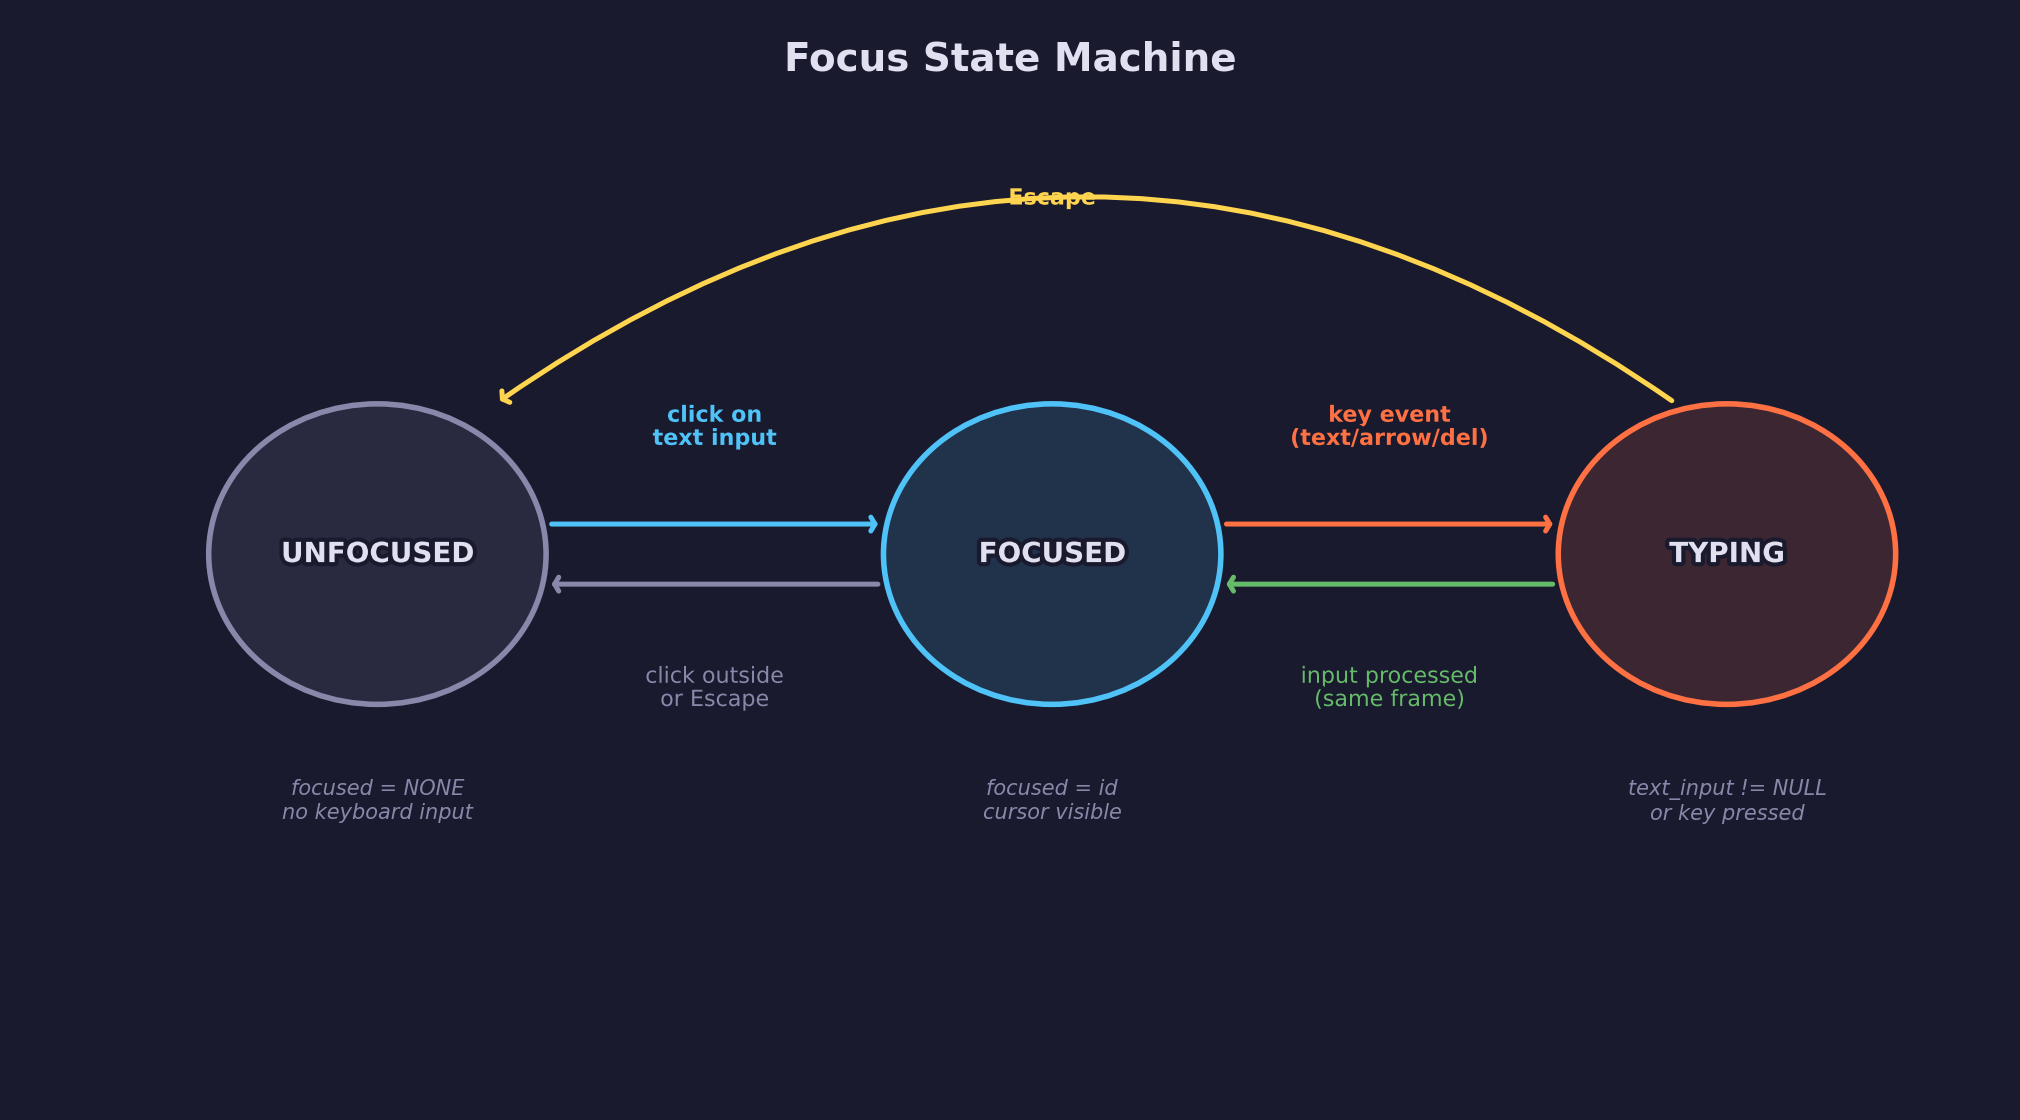
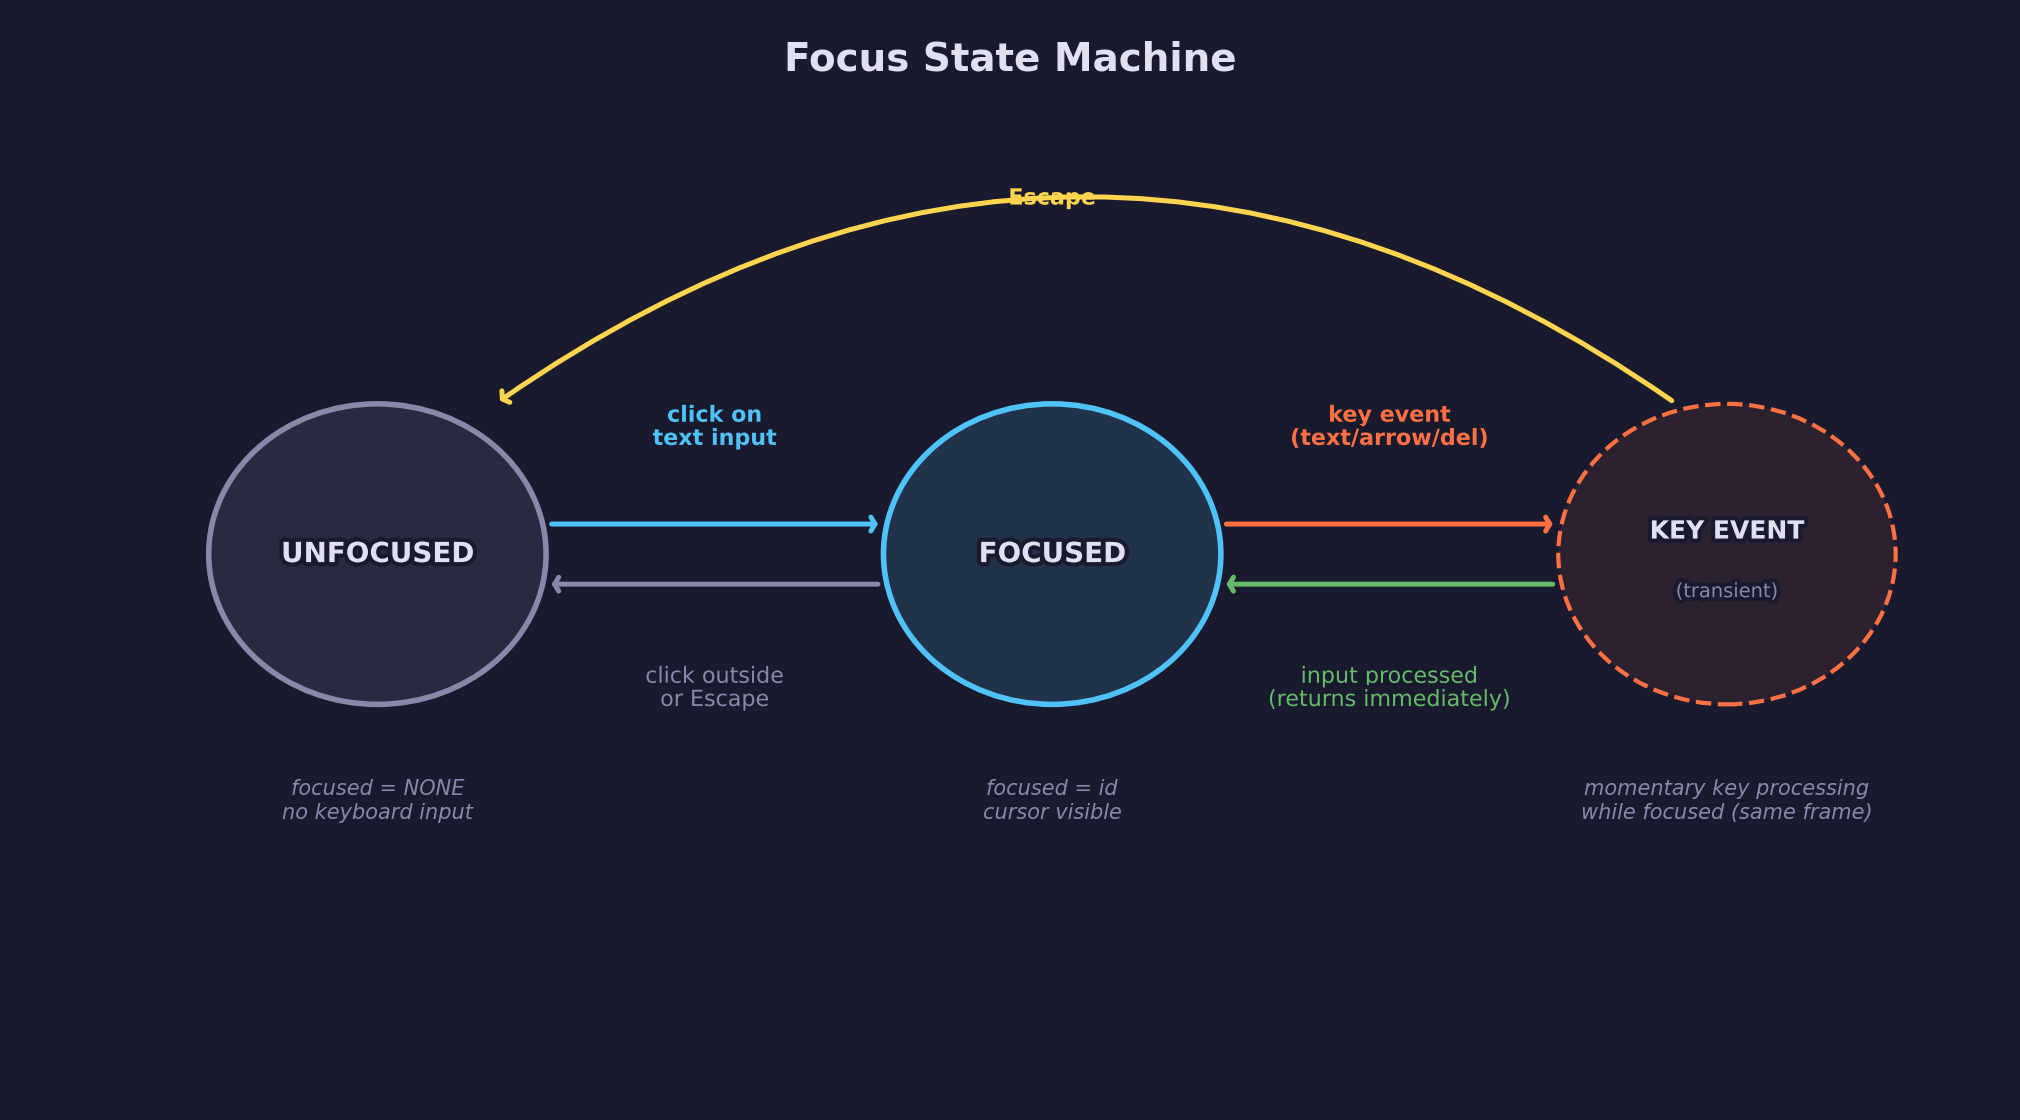
Present key-event processing as transient in focus state machine diagram
The implementation uses a single focused-ID model (focused = NONE or
focused = id) with no separate TYPING state.  Update the diagram to show
key-event processing as a dashed transient node rather than a solid
persistent state, and update the README description to match.

The "cursor bar (2px wide)" annotation was verified correct — it matches
FORGE_UI_TI_CURSOR_WIDTH (2.0f) in forge_ui_ctx.h.

https://claude.ai/code/session_01HK7huQTFVTd1sxhXwkHNWu

diff --git a/scripts/forge_diagrams/ui_diagrams.py b/scripts/forge_diagrams/ui_diagrams.py
@@ -4272,9 +4272,9 @@ def diagram_widget_interaction_comparison():
 
 
 def diagram_focus_state_machine():
-    """Three-state focus machine: Unfocused -> Focused -> Typing, with labeled
-    transitions for click-to-focus, click-outside/Escape-to-unfocus, and
-    key-events-while-focused."""
+    """Two-state focus machine (Unfocused / Focused) with a transient key-event
+    processing phase shown as a dashed node, reflecting the single focused-ID
+    model in forge_ui_ctx.h."""
 
     fig, ax = plt.subplots(figsize=(10, 5.5))
     fig.patch.set_facecolor(STYLE["bg"])
@@ -4289,14 +4289,13 @@ def diagram_focus_state_machine():
         pad=12,
     )
 
-    # State positions and colors
+    # Persistent state positions and colors
     states = {
         "UNFOCUSED": (1.5, 3.0, STYLE["text_dim"]),
         "FOCUSED": (5.5, 3.0, STYLE["accent1"]),
-        "TYPING": (9.5, 3.0, STYLE["accent2"]),
     }
 
-    # Draw state circles
+    # Draw persistent state circles (solid border)
     for name, (x, y, color) in states.items():
         circle = mpatches.Circle(
             (x, y),
@@ -4320,11 +4319,46 @@ def diagram_focus_state_machine():
             path_effects=[pe.withStroke(linewidth=3, foreground=STYLE["bg"])],
         )
 
-    # Descriptions below each state
+    # Transient key-event node (dashed border to signal non-persistent)
+    ke_x, ke_y, ke_color = 9.5, 3.0, STYLE["accent2"]
+    ke_circle = mpatches.Circle(
+        (ke_x, ke_y),
+        1.0,
+        facecolor=ke_color + "15",
+        edgecolor=ke_color,
+        linewidth=1.5,
+        linestyle="--",
+        zorder=3,
+    )
+    ax.add_patch(ke_circle)
+    ax.text(
+        ke_x,
+        ke_y + 0.15,
+        "KEY EVENT",
+        color=STYLE["text"],
+        fontsize=9,
+        fontweight="bold",
+        ha="center",
+        va="center",
+        zorder=4,
+        path_effects=[pe.withStroke(linewidth=3, foreground=STYLE["bg"])],
+    )
+    ax.text(
+        ke_x,
+        ke_y - 0.25,
+        "(transient)",
+        color=STYLE["text_dim"],
+        fontsize=7,
+        ha="center",
+        va="center",
+        zorder=4,
+        path_effects=[pe.withStroke(linewidth=3, foreground=STYLE["bg"])],
+    )
+
+    # Descriptions below each node
     descs = {
         "UNFOCUSED": "focused = NONE\nno keyboard input",
         "FOCUSED": "focused = id\ncursor visible",
-        "TYPING": "text_input != NULL\nor key pressed",
     }
     for name, (x, y, _) in states.items():
         ax.text(
@@ -4337,6 +4371,16 @@ def diagram_focus_state_machine():
             va="top",
             style="italic",
         )
+    ax.text(
+        ke_x,
+        ke_y - 1.5,
+        "momentary key processing\nwhile focused (same frame)",
+        color=STYLE["text_dim"],
+        fontsize=7.5,
+        ha="center",
+        va="top",
+        style="italic",
+    )
 
     arrow_style = dict(
         arrowstyle="->,head_width=0.25,head_length=0.15",
@@ -4382,7 +4426,7 @@ def diagram_focus_state_machine():
         path_effects=[pe.withStroke(linewidth=3, foreground=STYLE["bg"])],
     )
 
-    # FOCUSED -> TYPING: key event
+    # FOCUSED -> KEY EVENT: key arrives while focused
     ax.annotate(
         "",
         xy=(8.5, 3.2),
@@ -4402,7 +4446,7 @@ def diagram_focus_state_machine():
         path_effects=[pe.withStroke(linewidth=3, foreground=STYLE["bg"])],
     )
 
-    # TYPING -> FOCUSED: processed (returns to waiting)
+    # KEY EVENT -> FOCUSED: processed, returns to focused
     ax.annotate(
         "",
         xy=(6.5, 2.8),
@@ -4413,7 +4457,7 @@ def diagram_focus_state_machine():
     ax.text(
         7.5,
         2.25,
-        "input processed\n(same frame)",
+        "input processed\n(returns immediately)",
         color=STYLE["accent3"],
         fontsize=8,
         ha="center",
@@ -4421,7 +4465,7 @@ def diagram_focus_state_machine():
         path_effects=[pe.withStroke(linewidth=3, foreground=STYLE["bg"])],
     )
 
-    # TYPING -> UNFOCUSED: Escape while typing
+    # KEY EVENT -> UNFOCUSED: Escape key
     ax.annotate(
         "",
         xy=(2.2, 4.0),

diff --git a/lessons/ui/07-text-input/README.md b/lessons/ui/07-text-input/README.md
@@ -106,9 +106,10 @@ The **focused ID** is a third persistence slot that lives longer than both:
   keyboard input. This is the initial state.
 - **Focused** — `focused = id`. The widget with this ID receives keyboard
   input. The cursor bar is visible and the border changes to accent color.
-- **Typing** — keyboard events are processed by the focused widget within
-  the same frame. After processing, the widget returns to the focused
-  (waiting) state.
+- **Key event (transient)** — keyboard events are processed by the focused
+  widget within the same frame. This is not a separate state in the code
+  (`focused` stays set to `id`); it is momentary processing that returns
+  immediately to the focused (waiting) state.
 
 **Transitions:**
 
